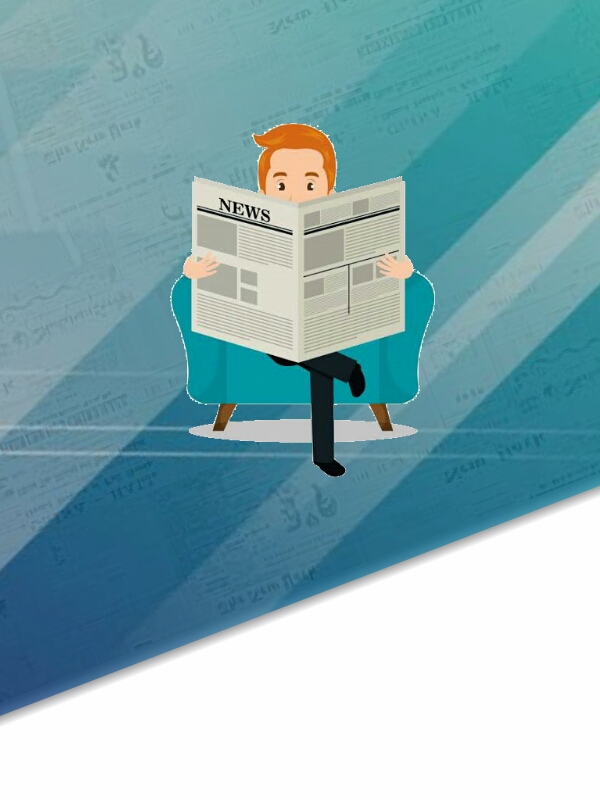
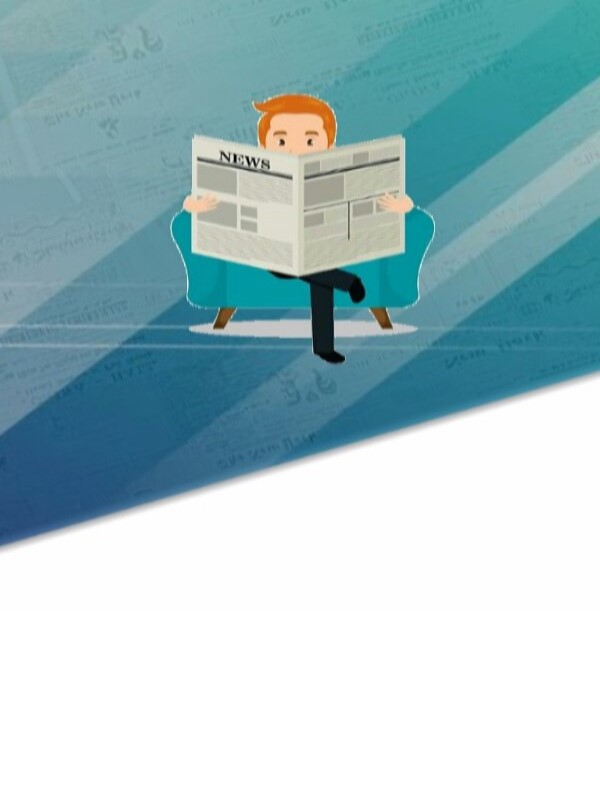
upto

diff --git a/css/styles.css b/css/styles.css
@@ -11,11 +11,11 @@ body {margin:0px;}
 	}
 
 #toplink{bottom-margin:100px;}
-#home{color:black; font-weight:bold;text-decoration:none; position:fixed; left:15%; top:480px; letter-spacing:3px; font-size:18px; opacity:.3;}
-#bio{color:black; font-weight:bold;text-decoration:none; position:fixed;  left:23%; top:480px; letter-spacing:8px; font-size:18px; opacity:.3;}
-#works{color:black; font-weight:bold;text-decoration:none; position:fixed; left:29%; top:480px; letter-spacing:8px; font-size:18px; opacity:.3;}
-#contact{color:black; font-weight:bold;text-decoration:none; position:fixed; left:39%; top:480px; letter-spacing:8px; font-size:18px; opacity:.3}
-#exhibition{color:black; font-weight:bold;text-decoration:none; position:fixed; left:51%; top:480px; letter-spacing:8px; font-size:18px; opacity:.3}
+#home{color:black; font-weight:bold;text-decoration:none; position:fixed; left:10%; top:77%; letter-spacing:8px; font-size:18px; opacity:.3;}
+#bio{color:black; font-weight:bold;text-decoration:none; position:fixed;  left:18%; top:77%; letter-spacing:8px; font-size:18px; opacity:.3;}
+#works{color:black; font-weight:bold;text-decoration:none; position:fixed; left:24%; top:77%; letter-spacing:8px; font-size:18px; opacity:.3;}
+#contact{color:black; font-weight:bold;text-decoration:none; position:fixed; left:34%; top:77%; letter-spacing:8px; font-size:18px; opacity:.3}
+#exhibition{color:black; font-weight:bold;text-decoration:none; position:fixed; left:46%; top:77%; letter-spacing:8px; font-size:18px; opacity:.3}
 
 #home:hover{opacity:1;}
 #bio:hover{opacity:1}
@@ -73,7 +73,7 @@ h1{ position:fixed; text-align:center; top:5%; left:10%; font-family:san-serif; 
 
 @media only screen and (max-width:768px){
 #topbar{width:100%; height:73%; top:17%; border-radius:0px; left:0px; background:linear-gradient(white 15%, grey 555%)}
-#topbar>img{width:30%; height:25%; right:6%; top:20%;}
+#topbar-img{width:150px; height:150px; right:6%; top:20%;}
 
 
 #img-body{display:none;}
@@ -106,13 +106,15 @@ h1{top:3%; left:30%;}
 #newsletter{position:fixed; top:330px; left:50px; font-weight:bold; letter-spacing:2px; font-size:13px; color:black; opacity:.3; text-decoration:none;}
 #newsletter:hover{letter-spacing:10px; font-size:18px; opacity:1;}
 #mail{position:absolute; top:59%; left:70%; display:none;}
-#newsletter-modal{position:absolute; height:100%; width:100%; background:white; top:0%; left:0%;}
-#newsletter-modal>img{position:absolute; height:80%; width:100%; display:block; }
+#newsletter-modal{position:absolute; height:100%; width:100%; background:url("/images/news-img.jpg"); top:0%; left:0%;}
+#newsletter-modal>img{position:absolute; height:80%; width:100%; display:none; }
 #newsletter-form{position:fixed; background:white; width:100%; height:100%; left:0%; top:0%; display:none; }
-#email-sub{position:fixed; top:85.5%; left:4.5%; font-size:13px; font-weight:normal;  width:65%; height:6%; letter-spacing:3px; text-align:center; color:white; background:black; overflow:scroll;}
-#btn-sub{position:fixed; top:85.5%; right:4.5%; font-weight:bold; opacity:1; background:rgba(170,0,0,1); color:white; width:25%; height:6%; overflow:scroll;}
-#cancel{position:absolute; top:93%; right:0px;}
-#recent{position:absolute; top:94.4%; right:55px;}
+#sign-in{position:absolute; top:90.5%; left:3%; width:80%; height:6%; background:rgba(0,0,0,.08); border-radius:60px 20px 20px 60px;}
+#email-sub{position:absolute; top:0%; left:15.5%; font-size:13px; font-weight:bold;  width:84.3%; height:100%; letter-spacing:3px; text-align:center; color:rgba(0,0,0,1); background:white; overflow:scroll; border-radius:60px 20px 20px 60px;}
+#btn-sub{position:absolute; top:3%; left:1%; opacity:1; background:transparent; color:teal; border:transparent; width:10%; height:10%;}
+#cancel{position:absolute; top:90.5%; right:1%;}
+#recent{position:absolute; top:91.9%; right:11%; font-size:18px;}
 #email-sub1{display:none;}
 #btn-sub1{display:none;}
+
 }

diff --git a/index.html b/index.html
@@ -68,12 +68,15 @@
 
 
  <div id="topbar">
-      <img id="topbar-img" data-src="/images/amehface2.jpg" uk-img>
+      <div uk-scrollspy="cls:uk-animation-fade; target:>.holder; delay:120; repeat:true;">
+   
+      <img class="holder" id="topbar-img" data-src="/images/amehface2.jpg" uk-img>
       
-	  <div class="uk-overflow-hidden">
-	  <img id="img-body" data-src="/images/Logo.jpg" class="uk-animation-reverse uk-transform-origin-top-left" uk-scrollspy="cls:uk-animation-kenburns; repeat:infinite" uk-img>
+	  <div class="holder uk-overflow-hidden"> 
+	  <img id="img-body"  data-src="/images/Logo.jpg" uk-img>
 	  </div>
-	  
+ </div>
+
 		
 		<div id="subscribe" uk-modal>
 			<div id="newsletter-form" ></div>
@@ -81,15 +84,15 @@
 			
 			<div id="newsletter-modal" class="uk-modal-dialog">
 			
-			<a id="recent" href="#" ><span class="uk-icon-link" style="color:black"  uk-icon="icon:history; ratio:.9;"></a>
+			<a id="recent" href="#" ><span class="glyphicon glyphicon-bell" style="color:rgba(0,0,0,.3)"></a>
 			
 			
-			<a href="#" id="cancel" class="uk-button uk-modal-close" style="color:red;" uk-close></a>
+			<a href="#" id="cancel" class="uk-button uk-modal-close" style="color:rgba(0,0,0,.3);" uk-close></a>
 		
 			
-			<form id="form-modal"  name="newsletter subscription" data-netlify="true" method="POST">
-			<input class="uk-input" name="email" id="email-sub" type="email" placeholder="Your email.com">
-			<button class="uk-input" id="btn-sub" type="submit"> subscribe </button>
+			<form action="#" id="form-modal"  name="newsletter subscription" data-netlify="true" method="POST">
+			<div id="sign-in" id="email-sub"><input class="uk-input" id="email-sub"  type="email" placeholder="Your email.com"> <button class="uk-input" id="btn-sub" type="submit"><span style="font-size:22px;" class="glyphicon glyphicon-send"></span></button></div>
+			
 			</form>
 			
 				<img data-src="/images/news-img.jpg" uk-img>
@@ -98,16 +101,15 @@
 			</div>
 			
 			
-		<form  name="newsletter subscription" data-netlify="true">
-			<input name="email" class="uk-input" id="email-sub1" type="email" placeholder="Your email.com">
-			<button class="uk-input" id="btn-sub1" type="submit"> subscribe </button>
+		<form action="#" name="newsletter subscription" data-netlify="true">
+			<input class="uk-input" id="email-sub1" type="email" placeholder="Your email.com"><button class="uk-input" id="btn-sub1" type="submit"> subscribe </button></input>
 		</form>
 	 
 	<a id="mail" href="mailto:ameamehame@gmail.com"><span class="uk-icon-link"  uk-icon="icon:mail; ratio:1.7;"></span></a>
 	
     <div id="toplink">
-      <a id="home" href="amehegwuh.netlify.app" >home</a><br>
-      <a id="exhibition" href="amestudio.netlify.app" >exhibition</a><br>
+      <a id="home" href="#" >home</a><br>
+      <a id="exhibition" href="#" >exhibition</a><br>
       <a id="works" href="#" >works</a><br>
       <a id="contact" href="#" >contact</a><br>
       <a id="bio" href="#" >bio</a><br>
